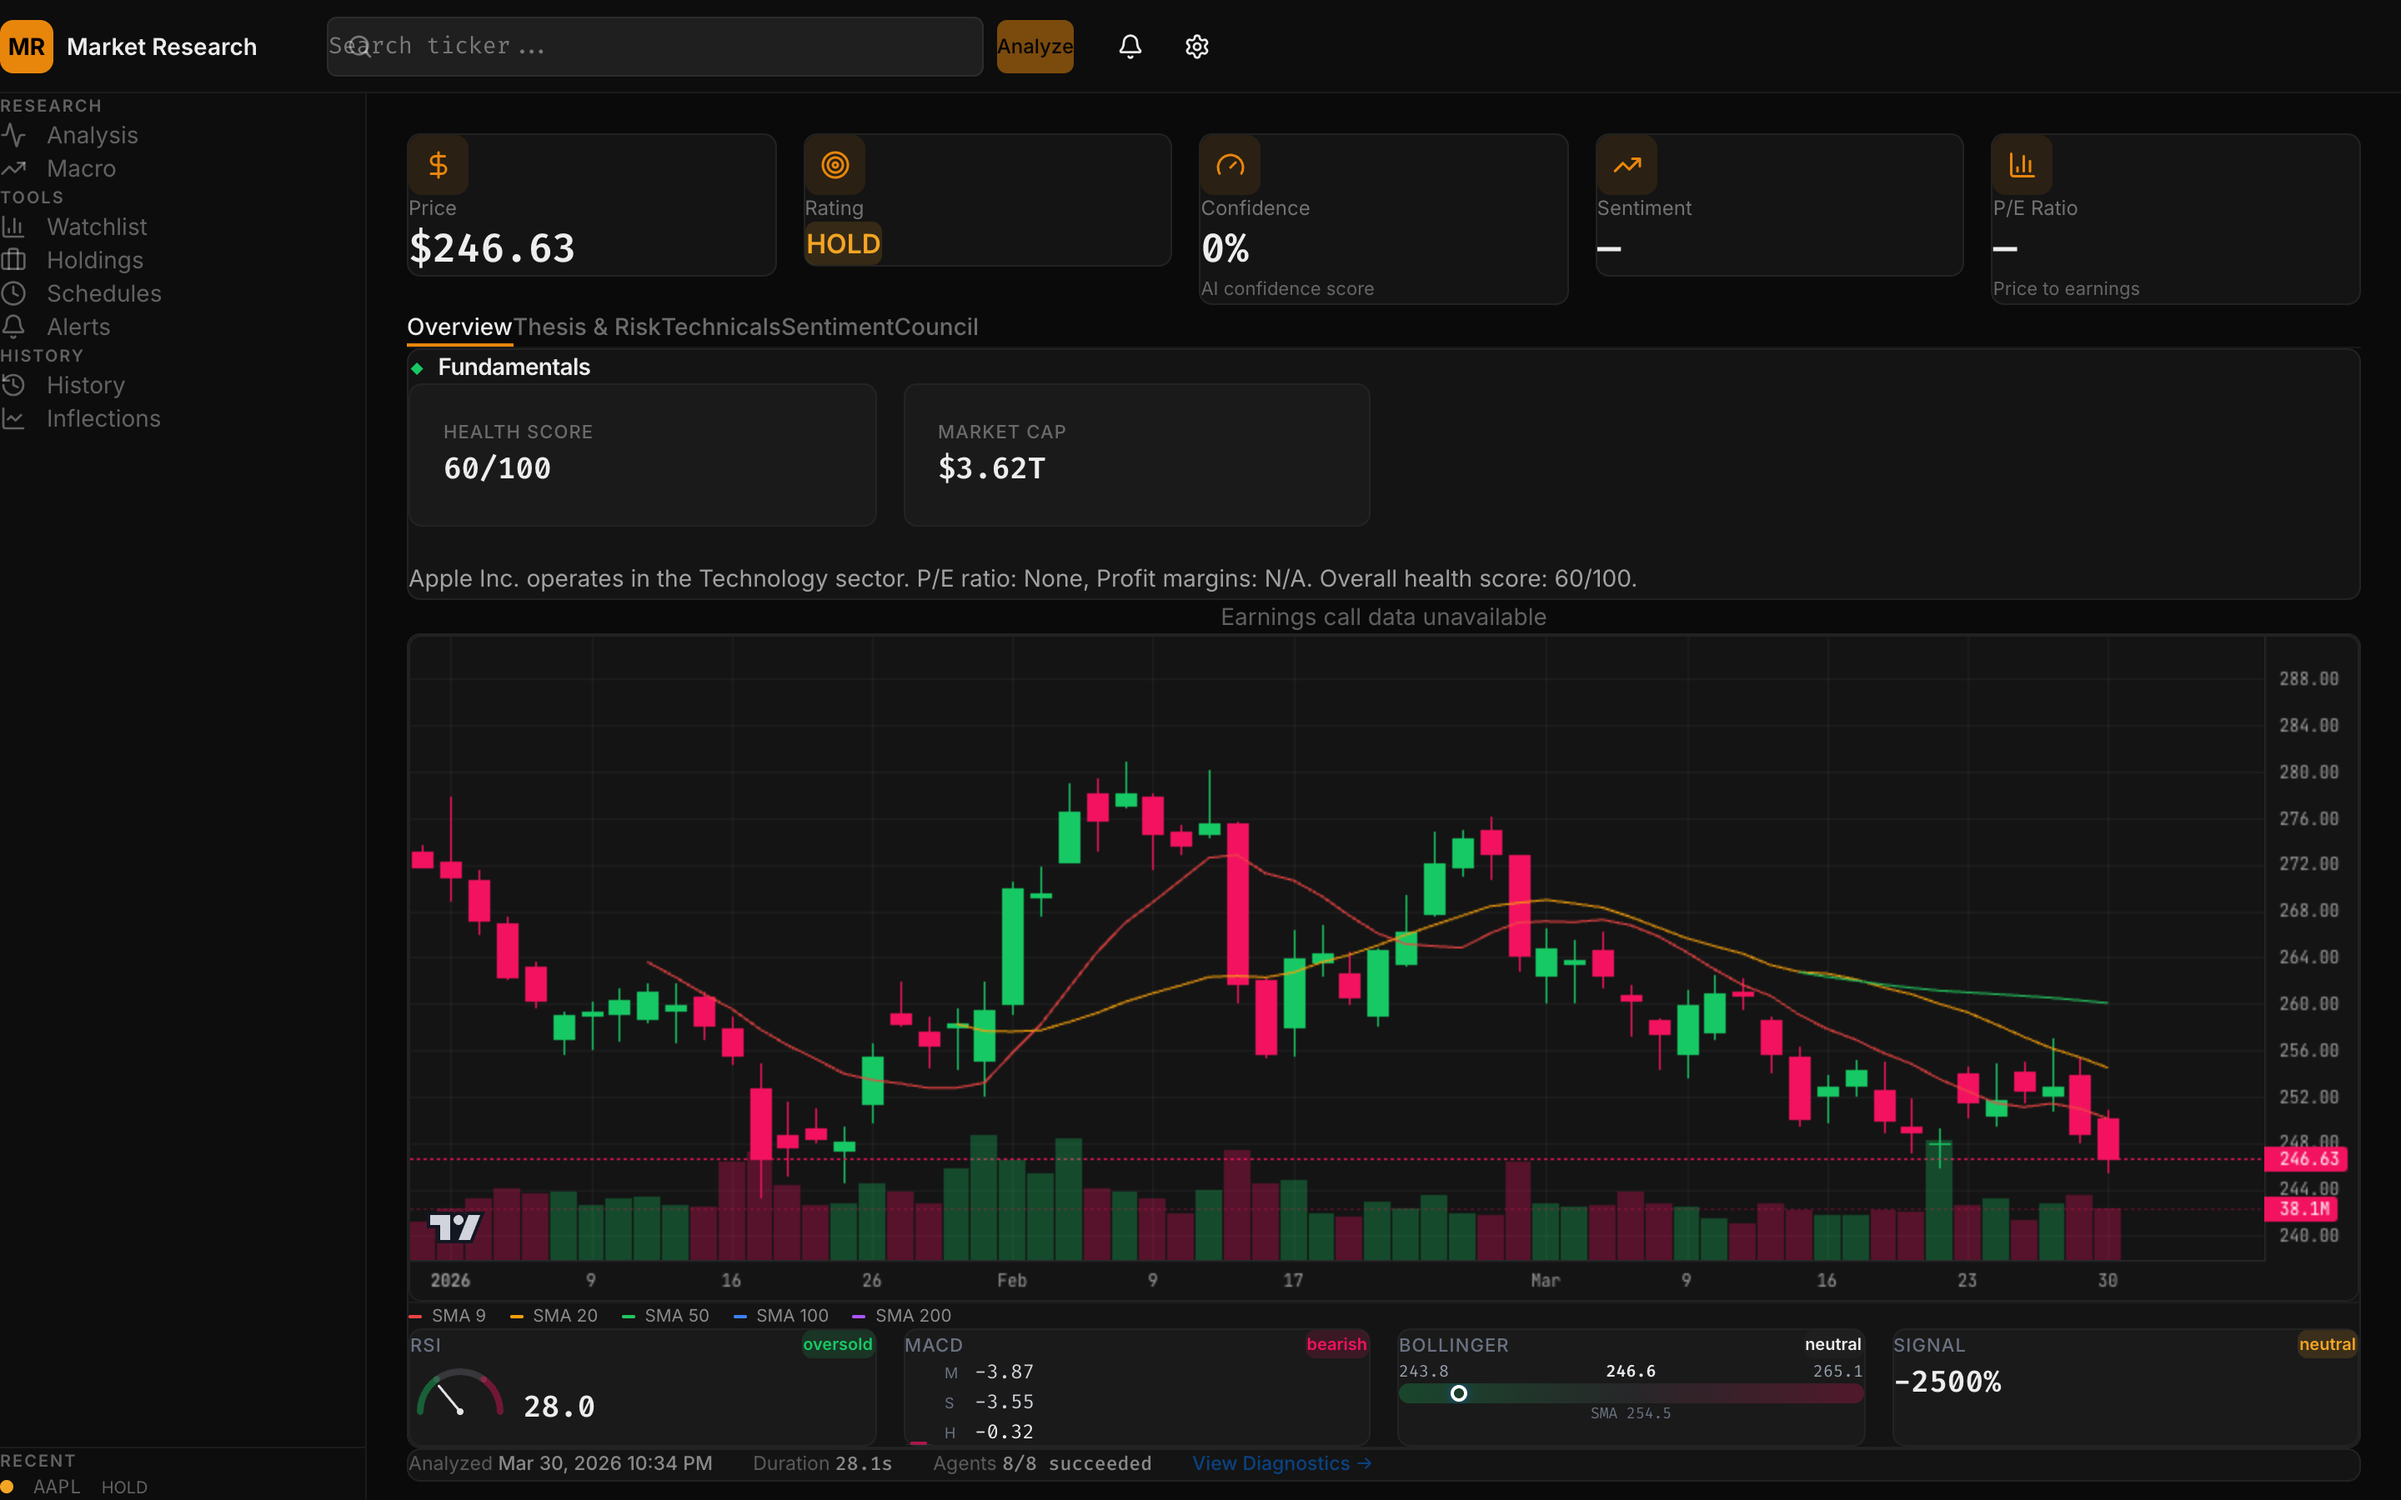
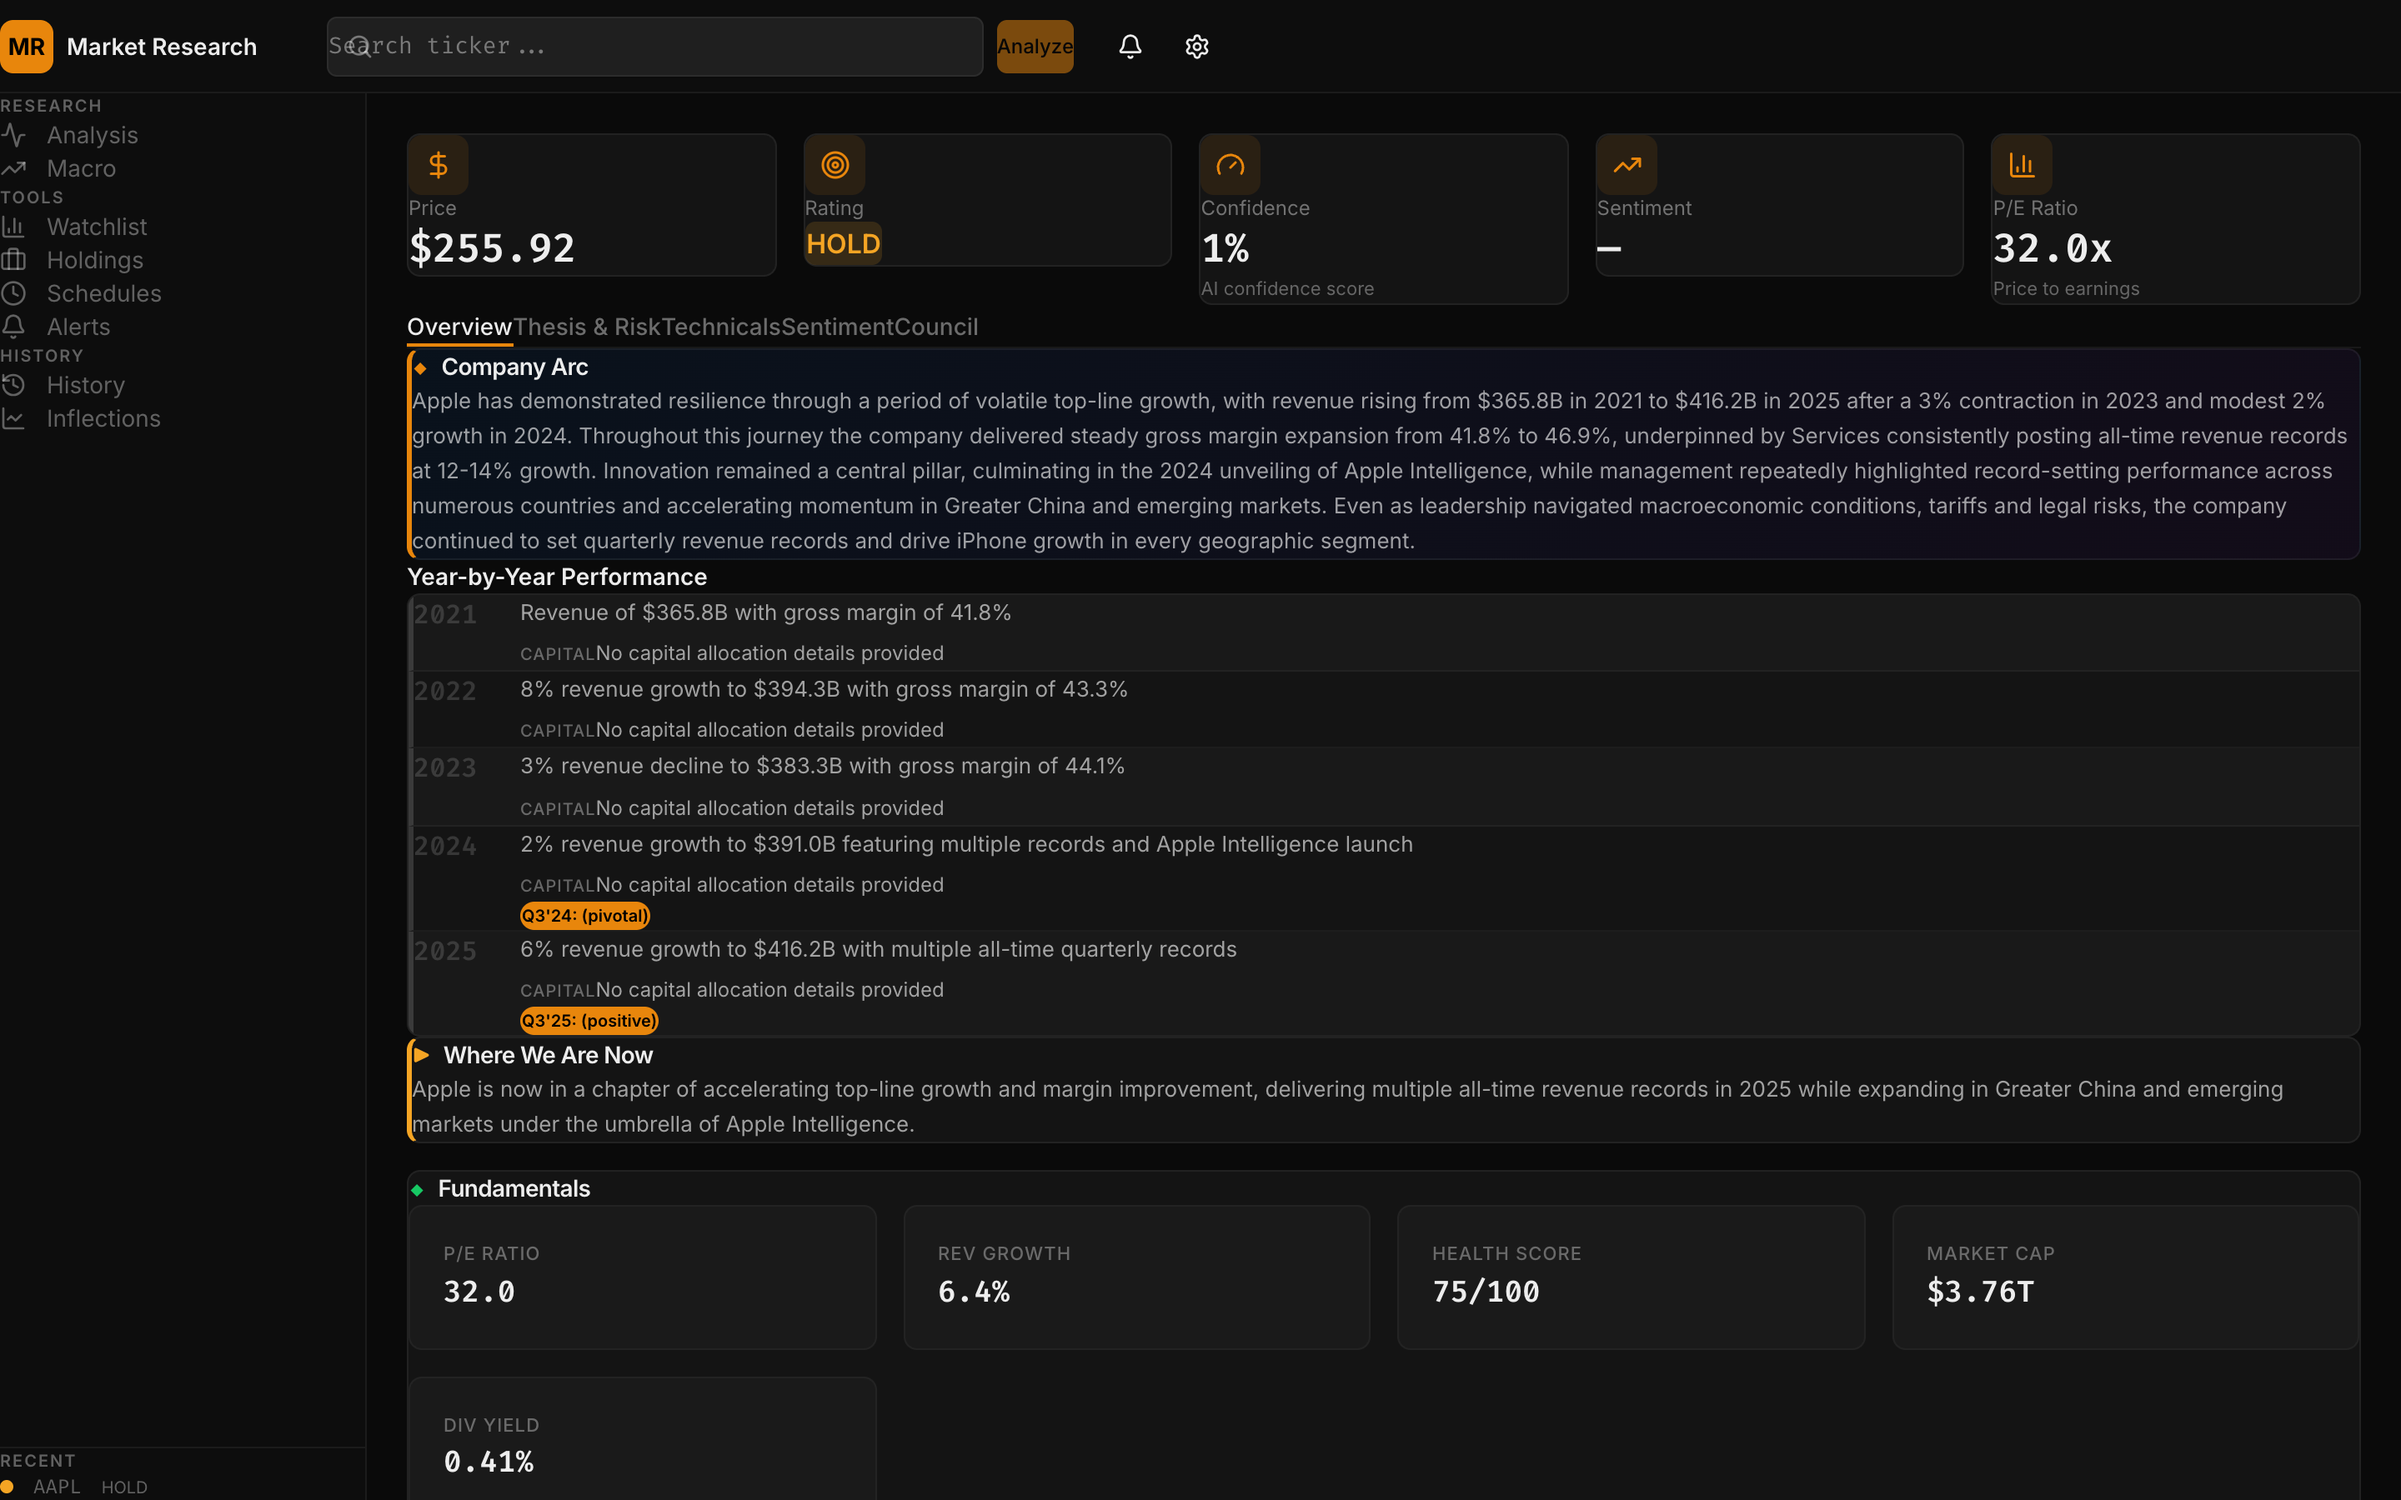
docs: retake screenshots with live analysis data
Screenshots now show populated AAPL analysis with real agent output:
- Dashboard overview with KPIs and Company Arc narrative
- Fundamentals with earnings digest, key highlights, and Q&A
- Technicals with candlestick chart, indicators, and options flow
- Sentiment with news articles, ratings, and macro environment

Also fixes: Vite proxy for /api routes, API base URL uses relative
paths, and NaN sanitization on /latest endpoint.

diff --git a/frontend/src/utils/api.js b/frontend/src/utils/api.js
@@ -4,7 +4,7 @@
 
 import axios from 'axios';
 
-const API_BASE_URL = import.meta.env.VITE_API_URL ?? 'http://localhost:8000';
+const API_BASE_URL = import.meta.env.VITE_API_URL ?? '';
 
 const api = axios.create({
   baseURL: API_BASE_URL,

diff --git a/frontend/vite.config.js b/frontend/vite.config.js
@@ -12,4 +12,10 @@ export default defineConfig({
       "@": path.resolve(__dirname, "./src"),
     },
   },
+  server: {
+    proxy: {
+      '/api': 'http://localhost:8000',
+      '/health': 'http://localhost:8000',
+    },
+  },
 })

diff --git a/src/api.py b/src/api.py
@@ -405,7 +405,7 @@ async def get_latest_analysis(ticker: str):
             # Get full analysis with agent results
             analysis_id = latest.get("id")
             full_analysis = db_manager.get_analysis_with_agents(analysis_id)
-            return full_analysis
+            return _sanitize_for_json(full_analysis)
         else:
             raise HTTPException(
                 status_code=404,

diff --git a/README.md b/README.md
@@ -6,19 +6,19 @@ Real-time AI-powered US equity analysis with a quant PM upgrade layer.
 
 ### Analysis Dashboard
 ![Analysis Dashboard](docs/screenshots/dashboard-overview.png)
-*Real-time stock analysis with price chart, KPI cards, and multi-tab agent output (Fundamentals, Thesis, Technicals, Sentiment, and more).*
+*KPI cards, Company Arc narrative, and year-by-year financial performance powered by 9 parallel agents.*
 
-### Watchlist Management
-![Watchlist](docs/screenshots/watchlist-view.png)
-*Create and manage watchlists to track groups of tickers with scheduled re-analysis.*
+### Fundamentals & Earnings
+![Fundamentals & Earnings](docs/screenshots/dashboard-fundamentals.png)
+*Structured earnings digest with key highlights, guidance breakdown, and Q&A session analysis.*
 
-### Portfolio Tracker
-![Portfolio](docs/screenshots/portfolio-view.png)
-*Track holdings with cost basis, sector allocation, and AI-powered portfolio advisory.*
+### Technicals & Options
+![Technicals](docs/screenshots/technicals.png)
+*Interactive price chart with RSI, MACD, Bollinger Bands, and real-time options flow analysis.*
 
-### Alerts
-![Alerts](docs/screenshots/alerts-view.png)
-*Configure alert rules for recommendation changes, price movements, and sentiment shifts.*
+### Sentiment & Macro
+![Sentiment](docs/screenshots/sentiment.png)
+*AI-powered sentiment scoring across news, social media, and analyst ratings with macro environment overlay.*
 
 ## Overview
 This platform runs 9 specialized data agents (news, sentiment, fundamentals, market, technical, macro, options, leadership, earnings) in parallel, then runs 6 synthesis agents simultaneously (solution, thesis, earnings review, narrative, tag extractor, risk diff) to produce institutional-grade research output — all via `asyncio.gather()` with zero added latency.
